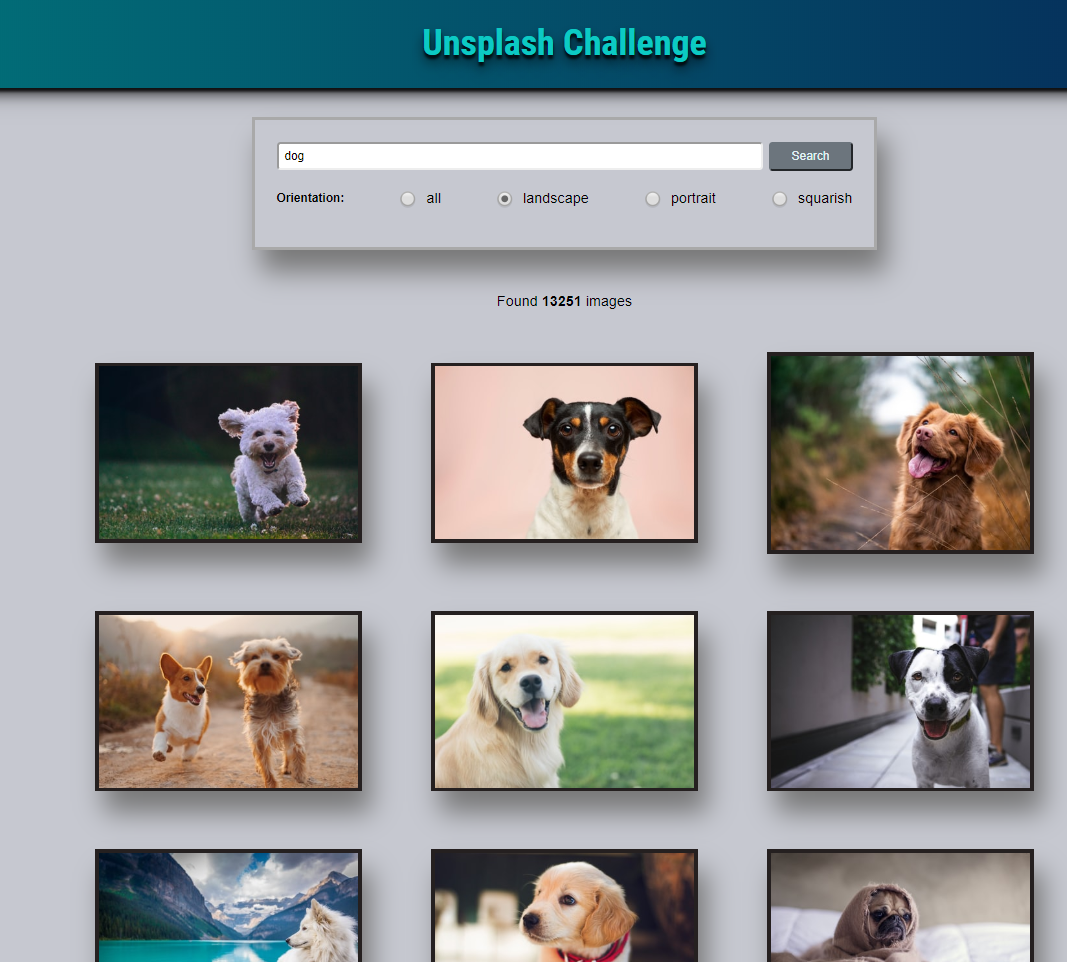
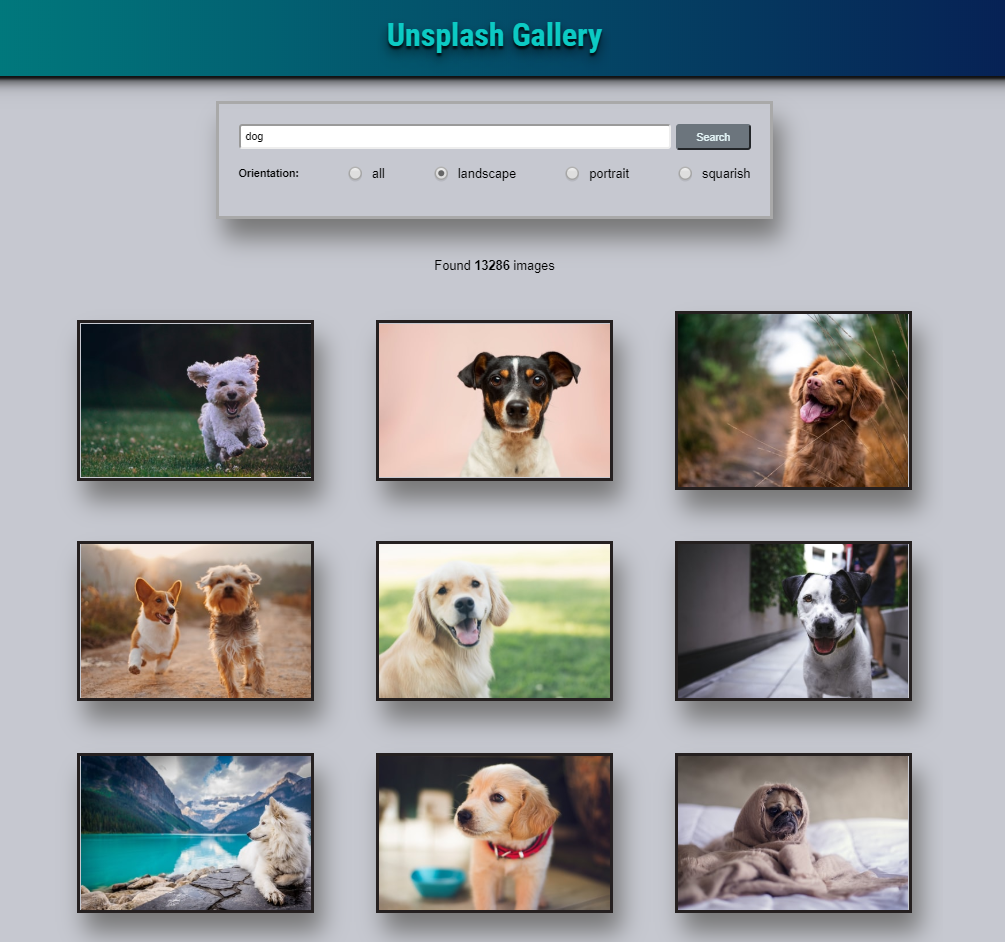
change string 'unsplash challenge' to 'unsplash gallery'

diff --git a/src/components/searchForm/SearchForm.jsx b/src/components/searchForm/SearchForm.jsx
@@ -22,7 +22,7 @@ const SearchBox = ({ setQuery, orientation, setOrientation }) => {
     <form className="search-form" onSubmit={handleOnSubmit}>
       <div className="search-container">
         <input
-          className="search"
+          // className="search"
           aria-label="Search"
           type="search"
           placeholder="search photos"

diff --git a/public/index.html b/public/index.html
@@ -28,7 +28,7 @@
       href="https://fonts.googleapis.com/css2?family=Roboto+Condensed:wght@700&display=swap"
       rel="stylesheet"
     />
-    <title>Unsplash Challenge</title>
+    <title>Unsplash Gallery</title>
   </head>
   <body>
     <noscript>You need to enable JavaScript to run this app.</noscript>

diff --git a/src/components/searchForm/searchForm.css b/src/components/searchForm/searchForm.css
@@ -11,7 +11,7 @@
   justify-content: center;
 }
 
-input.search {
+input[type="search"] {
   display: block;
   height: 2rem;
   padding: 0.5em;
@@ -46,7 +46,7 @@ button {
     flex-wrap: wrap;
   }
 
-  input.search {
+  input[type="search"] {
     display: inline-block;
     flex-grow: 1;
     width: 80%;

diff --git a/src/App.jsx b/src/App.jsx
@@ -19,7 +19,7 @@ const App = () => {
   return (
     <div className="App">
       <header>
-        <h1>Unsplash Challenge</h1>
+        <h1>Unsplash Gallery</h1>
       </header>
       <main>
         <SearchForm

diff --git a/src/components/cardList/components/card/components/photoDetails/photoDetails.css b/src/components/cardList/components/card/components/photoDetails/photoDetails.css
@@ -64,10 +64,6 @@
     overflow-y: auto;
   }
 
-  .photo-details-modal > p {
-    display: none;
-  }
-
   .title > h3 {
     margin-left: 1em;
   }

diff --git a/README.md b/README.md
@@ -4,6 +4,10 @@ Responsive Unsplash gallery app.
 
 ## Images
 
+### Main page
+
+![Image of Main page](./img/main.png)
+
 ### Result
 
 ![Image of Result](./img/result.png)
